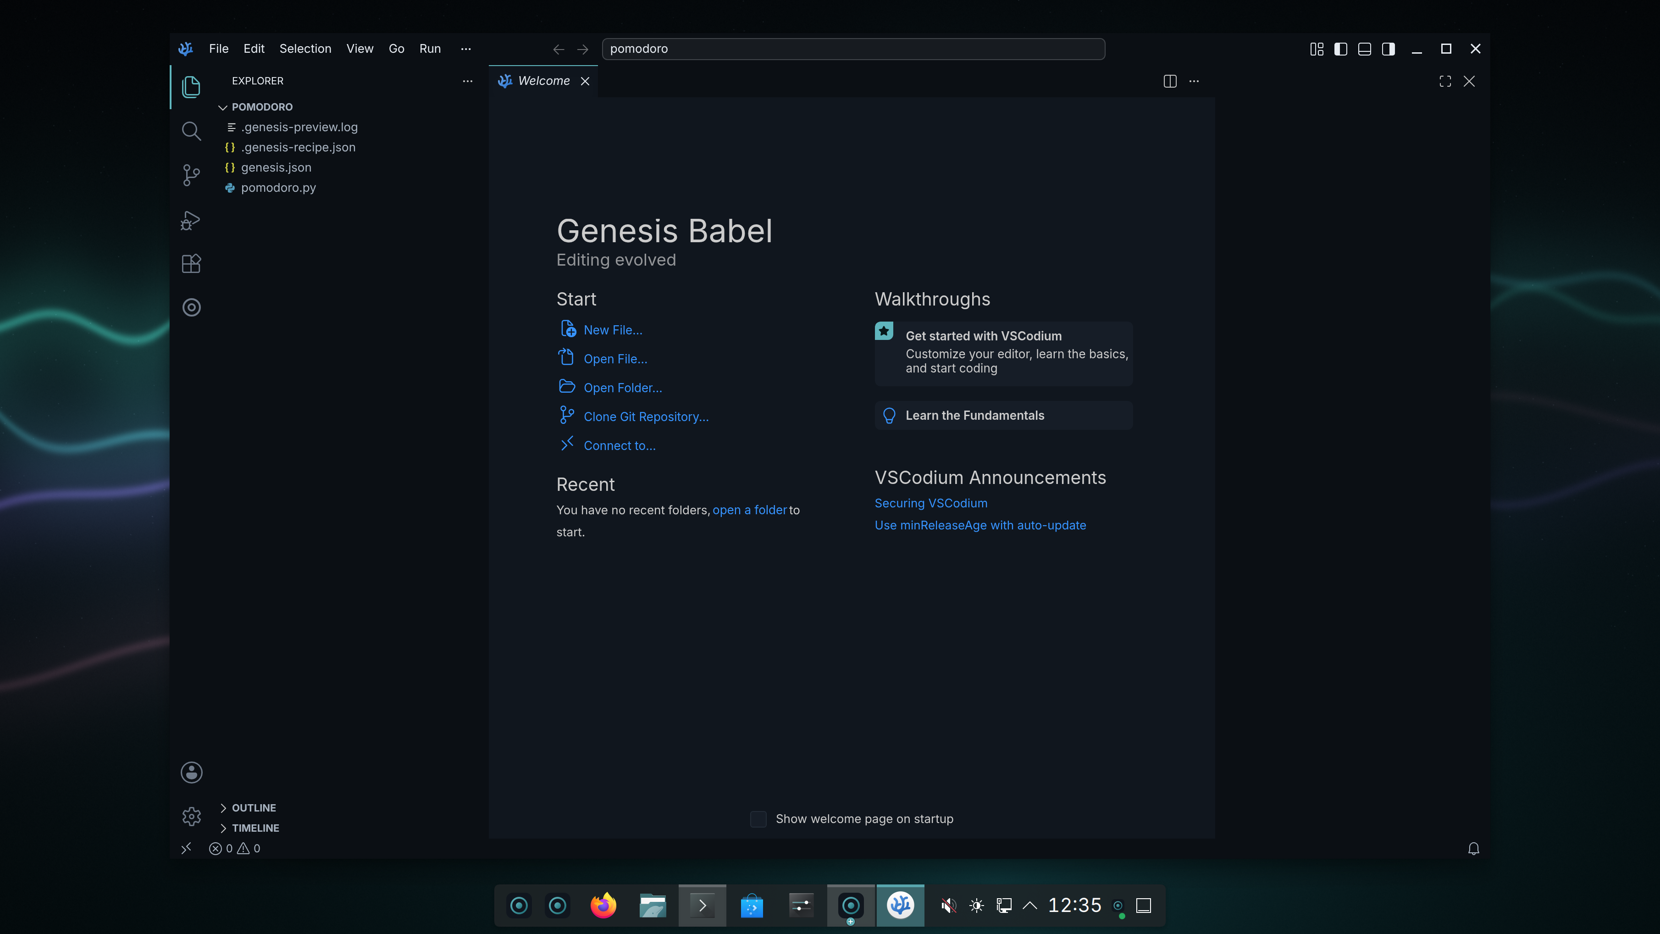
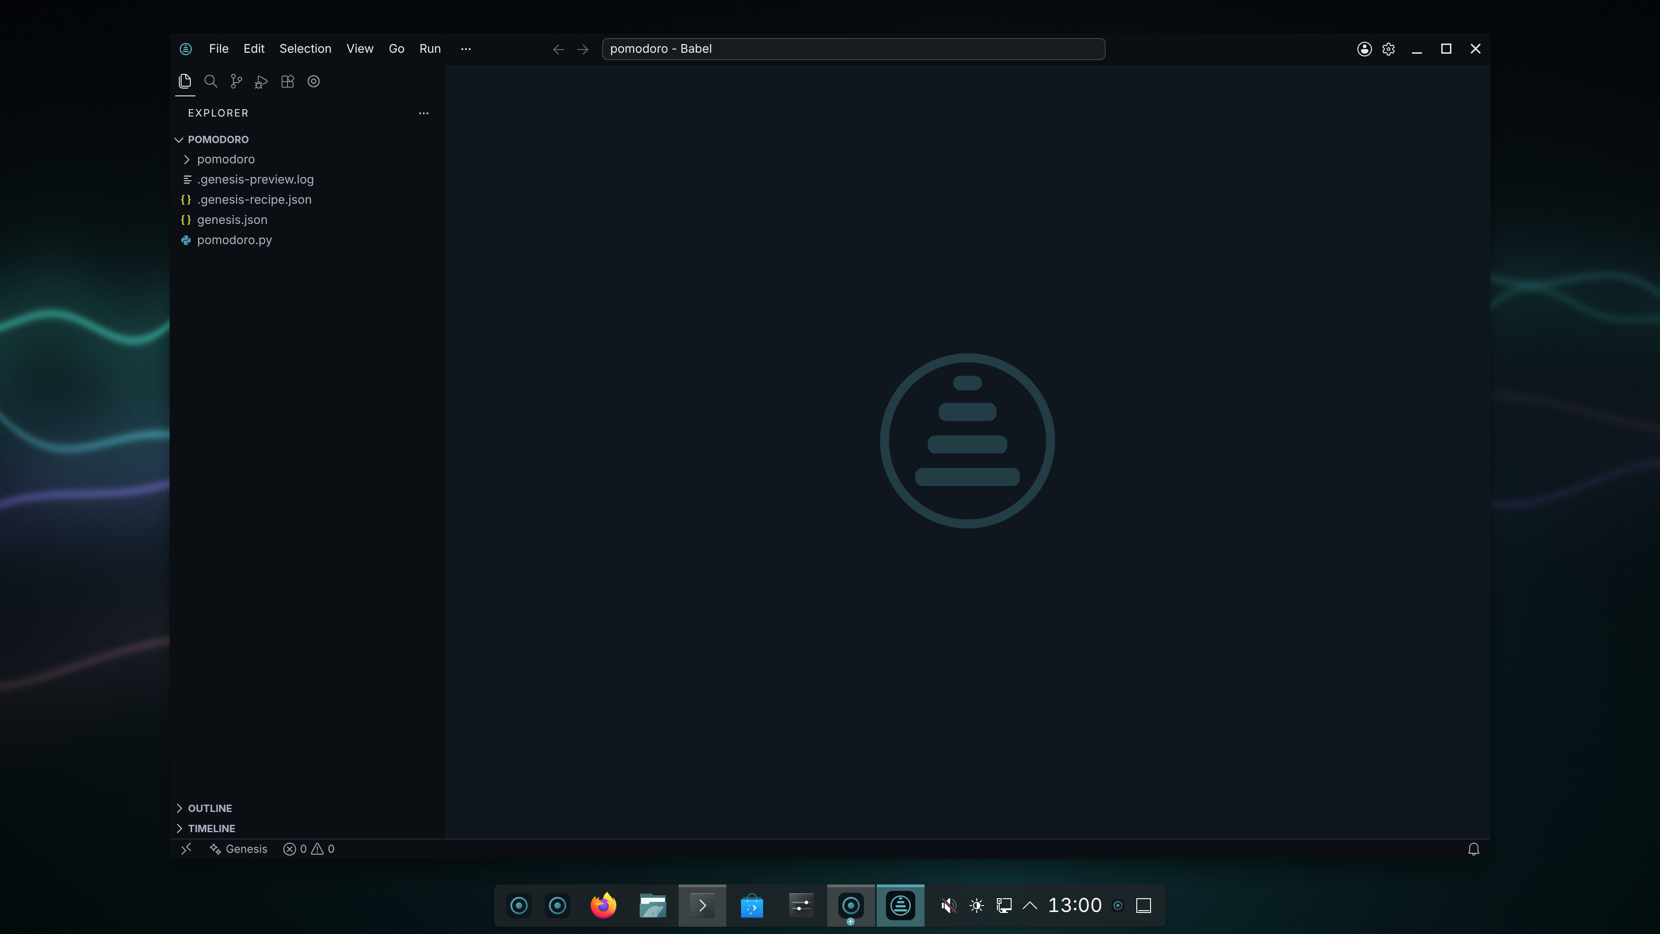
docs: Babel's own face; capture

diff --git a/docs/decisions.md b/docs/decisions.md
@@ -81,4 +81,4 @@ Short form. Evidence and alternatives are in [genesis-brief.html](genesis-brief.
 | 75 | 2026-09-15 | Improvement review (independent read of every surface, the daemons, units, workflows and docs; twenty findings). Fixed in one pass: the Settings page broken by duplicate ids from the new section navigation; model setup could not be reopened after "later" (a "Set up models" entry in the app menu now removes the marker and restarts the wizard); the signed pack definitions were fetched per user while the wizard runs as root, so nothing was ever verified at first run (a system service fetches them before the wizard, and the wizard reads that copy); the workspace microphone release recursed; "make" from the phone sent an empty project; two shortcuts shared Meta+Shift+Space (screen question is Meta+Shift+A); LAN-supplied device names were injected into pages; CPU-only machines now get the compact tool set, a shorter context and reasoning budget; a toolbox that has to be created counts as network use; a pack larger than the free space is refused with a plain sentence; boot-test checks now fail the job; the nightly rebuild is gone (the weekly base bump covers it); the download page no longer guesses arm64 for every Mac. Docs corrected where they overclaimed (plan rules marked partial, localisation "partly", the mode wording). Second pass, same day: a "no models yet" banner with the start button disabled when the router is down, an elapsed-time line after ten seconds on a running step, undo from Settings through the transaction store, polling back-off when idle, keyboard hold-to-talk, progress-bar semantics and higher contrast, checksum links on the download page, contributor prerequisites, stale Goose tasks removed. Verified in the VM: the Settings page renders in full again, the root wizard sees all eight signed pack definitions, the setup entry is in the menu. | built |
 | 76 | 2026-09-15 | Phone app, started. Not a replacement for KDE Connect (pairing, transfers, notifications stay there) but a Genesis companion: `genesis-companiond` serves a TLS API on the local network (self-signed certificate whose fingerprint the phone pins, a long pairing secret as bearer token, both in a QR under Settings > Phone app; regenerate to unpair every phone). It proxies to the maker with the daemon's own token, so the broker and its cards apply unchanged: jobs, steps, permission answers, a make from the phone, one screenshot on demand, never a stream. Same network only. The Android app (Kotlin, Compose) is built and verified on a real phone the same day: the founder's Samsung, on USB, paired through the Mac to Genesis in the VM, asked for a word-count tool and watched it get made with the permission decisions listed; a screenshot of the computer on demand. iOS later if wanted. A user guide, docs/how-to-use.md, joins the contributor documents. | built |
 | 77 | 2026-09-15 | Phone app, second pass, verified on the founder's phone: a quiet foreground service watches the paired Genesis and raises a notification with Allow once / Not now when a job waits for an answer (the answer goes through the same permission API), and one when a job finishes; a "Made" tab lists what Genesis built; the companion daemon honours the default mode from Settings. Release builds are signed with a keystore kept outside the repository (~/.config/genesis-android), so updates install over the previous version. Verified end to end: a job started in assist mode paused on its first step, the phone showed "Genesis wants to scaffold", Allow once from the notification shade let it continue. | built |
-| 78 | 2026-09-15 | Babel, the Genesis IDE. Not an editor of our own: Code-OSS through VSCodium (MIT, telemetry off, pinned by version and checksum), unpacked to /usr/lib/babel and branded, so every language VS Code speaks works on day one, with debuggers, terminals and the extension ecosystem. What makes it Genesis is a built-in extension in plain JavaScript (no build step): the maker as a sidebar view on the open workspace, permission cards in the sidebar and as editor notifications with the desktop's plain verbs, "Change this file…" and "Make something…" from the context menus and Ctrl+Alt+Space, "Ask about the selection" into an output channel, Undo for the job, recent jobs, and the Genesis Dark theme; it talks to the maker through the same token front door as every other surface. Named by the founder from five options; "Babel" for the tower where every language meets. Verified in the VM the same day: Ctrl+Alt+Space, "add a seconds option to pomodoro.py", the sidebar showed the edit, the preview and the reply, with Undo one click away. Two things found on the way: Electron wants to be told it is on Wayland, and the maker answers 201 when a job opens. | built |
+| 78 | 2026-09-15 | Babel, the Genesis IDE. Not an editor of our own: Code-OSS through VSCodium (MIT, telemetry off, pinned by version and checksum), unpacked to /usr/lib/babel and branded, so every language VS Code speaks works on day one, with debuggers, terminals and the extension ecosystem. What makes it Genesis is a built-in extension in plain JavaScript (no build step): the maker as a sidebar view on the open workspace, permission cards in the sidebar and as editor notifications with the desktop's plain verbs, "Change this file…" and "Make something…" from the context menus and Ctrl+Alt+Space, "Ask about the selection" into an output channel, Undo for the job, recent jobs, and the Genesis Dark theme; it talks to the maker through the same token front door as every other surface. Named by the founder from five options; "Babel" for the tower where every language meets. Verified in the VM the same day: Ctrl+Alt+Space, "add a seconds option to pomodoro.py", the sidebar showed the edit, the preview and the reply, with Undo one click away. Two things found on the way: Electron wants to be told it is on Wayland, and the maker answers 201 when a job opens. Babel then got its own face so it does not read as VS Code: the Babel mark in the title bar, the dock and behind empty editors, the tool rail on top of the sidebar, no minimap, no chat panel, the title ends in Babel, a small stylesheet for the accent, and the core-file checksums kept true after branding so Code-OSS does not call itself corrupt. | built |

diff --git a/HOW-TO-USE.md b/HOW-TO-USE.md
@@ -70,6 +70,7 @@ Undo history lists those jobs with an Undo button. In a terminal, `genesis-txd l
 
 ## Babel, the IDE
 
+<p align="center"><img src="docs/screens/babel/02-babel.png" width="88%" alt="Babel, the Genesis IDE"></p>
 <p align="center"><img src="docs/screens/babel/01-maker-in-the-sidebar.png" width="88%" alt="Babel with the Genesis maker in the sidebar after changing pomodoro.py"></p>
 
 Babel is in the dock and the app menu: a full code editor (Code-OSS, so every language, debugger and
